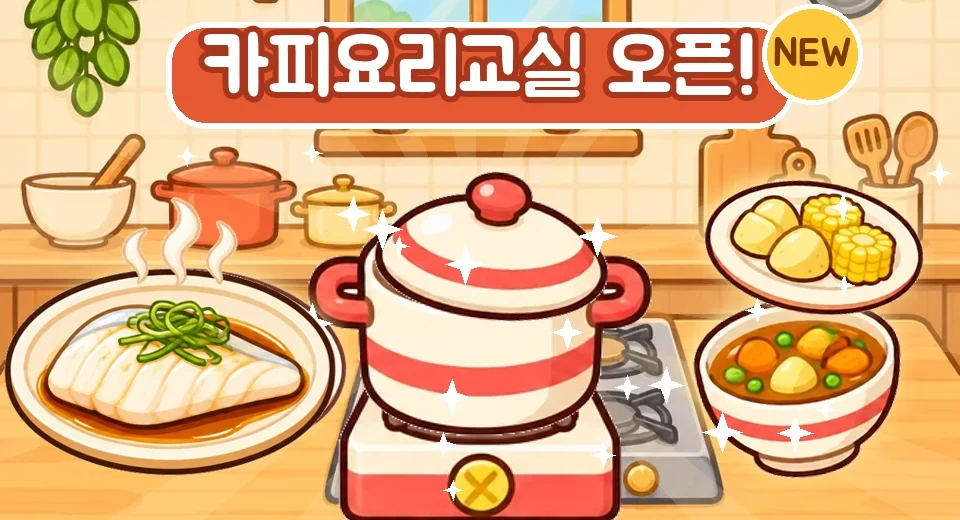
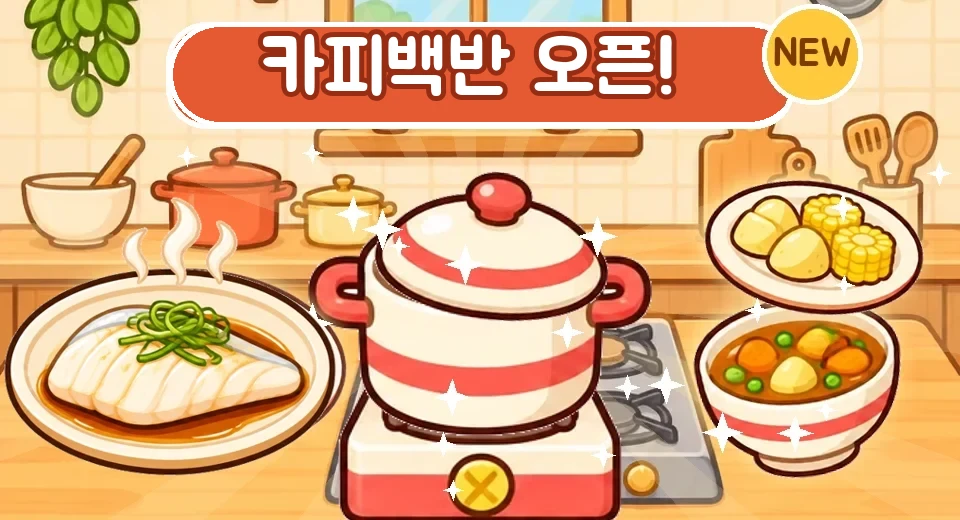
카피요리교실 → 카피백반으로 이름 변경, 하루 임대료 100코인 내야 장사 시작
Claude-Session: https://claude.ai/code/session_015t7mwg1NEPVKJN39Z7Zz4S

Changed region(s): [[0.1562, 0.0308, 0.8125, 0.2462]]

diff --git a/js/app.js b/js/app.js
@@ -201,7 +201,7 @@ function leave() { LS.del('room'); location.hash = ''; location.reload(); }
 const PATCH_UNTIL = Date.parse('2026-11-20T23:59:00+09:00'); // 이 시각까지만, 들어올 때마다 보여 준다
 function patchNote() { if (Date.now() >= PATCH_UNTIL) return;
   const li = (ic, t, d) => h('li', null, h('span', null, ic), h('div', null, h('b', null, t), h('small', null, d)));
-  // 카피 농장 오픈 공지(요리교실이 열리면 다음 장에 붙인다)
+  // 카피 농장 오픈 공지(카피백반이 열리면 다음 장에 붙인다)
   const pages = [
     () => [h('div', { class: 'patch-farm' }, h('img', { src: 'img/farm/patch.webp', alt: '카피 농장 오픈' })),
       h('ul', null,
@@ -210,10 +210,11 @@ function patchNote() { if (Date.now() >= PATCH_UNTIL) return;
         li('💧', '물 주고 잡초 베면 S급', '컨디션 85% 넘으면 A급(가끔 S급), 60% 넘으면 B급, 안 돌봐도 C급. 다 자란 뒤 3일 넘게 안 거두면 시들어 F! 고랑 하나에서 2개씩 거둬요.'),
         li('🐦⬛', '까마귀 출몰! 1분 안에 농장으로', '하루 한 번, 친목회 육지나 농장에 있을 때 아무 때나 까마귀가 밭에 나타나요. 1분 안에 농장에 가서 새총으로 맞혀 쫓아내요(초·중·고급 랜덤). 못 쫓아내면 고랑 하나를 통째로 가져가요.'),
         li('💑', '두두네 밭에 물 주기', '위의 "두두네 농장"에서 구경하고 물을 주고 올 수 있어요. 거둔 작물은 카피수퍼에서 팔아요(S×2 · A×1.5 · B×1.2).')),
-      h('button', { class: 'patch-next cookn', onClick: () => go(1) }, h('img', { src: 'img/cook/fishdish.webp', alt: '' }), h('span', null, h('b', null, '다음 장: 카피요리교실 오픈!'), h('small', null, '눌러서 넘겨 보세요 👉')))],
-    () => [h('div', { class: 'patch-farm' }, h('img', { src: 'img/cook/patch.webp', alt: '카피요리교실 오픈' })),
+      h('button', { class: 'patch-next cookn', onClick: () => go(1) }, h('img', { src: 'img/cook/fishdish.webp', alt: '' }), h('span', null, h('b', null, '다음 장: 카피백반 오픈!'), h('small', null, '눌러서 넘겨 보세요 👉')))],
+    () => [h('div', { class: 'patch-farm' }, h('img', { src: 'img/cook/patch.webp', alt: '카피백반 오픈' })),
       h('ul', null,
-        li('🏠', '카피수퍼 바로 옆 카피요리교실', '놀이터 맨 오른쪽 끝, 카피수퍼 옆 건물을 누르면 들어가요. 요리는 여기서만 할 수 있어요.'),
+        li('🏠', '카피수퍼 바로 옆 카피백반', '놀이터 맨 오른쪽 끝, 카피수퍼 옆 건물을 누르면 들어가요. 요리는 여기서만 할 수 있어요.'),
+        li('🏪', '하루 임대료 100코인', '장사를 하려면 그날 처음 들어갈 때 임대료 100코인을 내고 가게 문을 열어요. 하루 한 번만 내요.'),
         li('📋', '오늘의 주문 3개', '동물들이 날마다 요리를 주문해요. "덜 익혀서", "알맞게", "푹 익혀서"처럼 동물마다 좋아하는 익힘이 달라요.'),
         li('🐟', '생선찜: 손질된 살로 바로 찜', '낚시로 잡은 물고기는 「레몬전어의 흰살생선」처럼 손질된 살로 나와요. 물고기마다 특징을 살린 곁들임(레몬·도토리·왕관…)이 올라가고, 희귀·A·S급은 반짝여요. 냄비에 넣고 뚜껑 덮어 찌다가 ★ 칸에서 불을 꺼요.'),
         li('🥕', '채소 수프 · 감자옥수수찜', '농장에서 거둔 작물 2개로 끓여요. 딱 맞추면 돈 + 친밀도 듬뿍, 익힘이 다르면 절반, 날것이거나 타면 보상이 없어요.'))]];
@@ -222,7 +223,7 @@ function patchNote() { if (Date.now() >= PATCH_UNTIL) return;
   function go(n) { at = n; box.replaceChildren(...pages[n]()); box.scrollTop = 0; const m = box.closest('.modal'); if (m) m.scrollTop = 0;
     dots.replaceChildren(...pages.map((_, k) => h('i', { class: k === n ? 'on' : '' }))); if (nextBtn) { nextBtn.textContent = n === pages.length - 1 ? '확인' : '다음 장 👉'; prevBtn.style.visibility = n ? 'visible' : 'hidden'; } }
   go(0);
-  const close = modal({ title: '✨ 패치 소식 · 카피 농장 & 요리교실', body: h('div', null, box, dots),
+  const close = modal({ title: '✨ 패치 소식 · 카피 농장 & 카피백반', body: h('div', null, box, dots),
     actions: [{ label: '👈 이전', onClick: () => at && go(at - 1) }, { label: '다음 장 👉', primary: true, onClick: c => (at < pages.length - 1 ? go(at + 1) : c()) }] });
   const btns = [...document.querySelectorAll('.modal-wrap:last-child .modal-actions .btn')]; [prevBtn, nextBtn] = btns; go(0); return close; }
 function enter() {

diff --git a/js/cook.js b/js/cook.js
@@ -1,8 +1,9 @@
-// 카피요리교실 — 카피수퍼 옆. 동물들이 주문한 요리는 여기서만 만든다
+// 카피백반 — 카피수퍼 옆. 동물들이 주문한 요리는 여기서만 만든다
 // 하루 주문 3개(동물·요리·익힘 취향) → 재료 고르기(생선은 손질된 살) → 냄비에 넣고 끓이기/찌기 → 원하는 익힘에서 불 끄기
 import { h, toast, modal, ymd } from './ui.js';
 import { sfx } from './sound.js';
 
+const RENT = 100;
 export const DISHES = {
   fish: { name: '생선찜', img: 'img/cook/fishdish.webp', need: '물고기 1마리', base: 140, ms: 9000 },
   soup: { name: '채소 수프', img: 'img/cook/soup.webp', need: '작물 아무거나 2개', base: 90, ms: 7500 },
@@ -42,7 +43,7 @@ export function openCook(o) {
   const R = rnd(hash(ctx.uid + day)), pool = o.animals.filter(a => o.A(a.i) >= 0);
   const orders = Array.from({ length: 3 }, (_, k) => { const a = pool.length ? pool[Math.floor(R() * pool.length)] : o.animals[k], dish = ['fish', 'soup', 'steam'][Math.floor(R() * 3)], pref = DONE[Math.floor(R() * 3)].k; return { k, a, dish, pref }; });
   const coinsEl = h('span', { class: 'ck-coins' }), stage = h('div', { class: 'ck-stage' }), panel = h('div', { class: 'ck-panel' });
-  const wrap = h('div', { class: 'ck' }, h('div', { class: 'ck-top' }, h('b', null, '👩🍳 카피요리교실'), coinsEl, h('button', { class: 'top-x', 'aria-label': '닫기', onClick: () => close() }, '✕')), stage, panel);
+  const wrap = h('div', { class: 'ck' }, h('div', { class: 'ck-top' }, h('b', null, '🍚 카피백반'), coinsEl, h('button', { class: 'top-x', 'aria-label': '닫기', onClick: () => close() }, '✕')), stage, panel);
   document.body.append(wrap);
   const off = ctx.store.on(ref, v => { st = v || {}; if (phase === 'orders') draw(); });
   const prefOf = k => DONE.find(d => d.k === k);
@@ -61,12 +62,15 @@ export function openCook(o) {
   }
   function drawOrders() {
     const done = st.done || {};
-    panel.replaceChildren(h('b', { class: 'ck-h' }, '📋 오늘의 주문'), ...orders.map(od => { const d = DISHES[od.dish], p = prefOf(od.pref), fin = done[od.k];
-      return h('button', { class: 'ck-order' + (fin ? ' done' : ''), onClick: () => fin ? toast('이미 만들어 준 주문이에요') : start(od) }, h('span', { class: 'ck-an', html: od.a.svg }),
+    const open = !!st.rent, rent = h('div', { class: 'ck-rent' + (open ? ' paid' : '') }, h('span', null, '🏪'), h('div', null, h('b', null, open ? '오늘 장사 중' : '오늘 가게 문 열기'), h('small', null, open ? '오늘 임대료 100코인을 냈어요. 내일 다시 내요.' : `장사를 하려면 하루 임대료 ${RENT}코인을 내야 해요.`)),
+      !open && h('button', { class: 'btn primary sm', onClick: payRent }, `${RENT}코인 내기`));
+    panel.replaceChildren(h('b', { class: 'ck-h' }, '📋 오늘의 주문'), rent, ...orders.map(od => { const d = DISHES[od.dish], p = prefOf(od.pref), fin = done[od.k];
+      return h('button', { class: 'ck-order' + (fin ? ' done' : '') + (open ? '' : ' shut'), onClick: () => fin ? toast('이미 만들어 준 주문이에요') : !open ? toast(`먼저 오늘 임대료 ${RENT}코인을 내고 가게 문을 열어요`) : start(od) }, h('span', { class: 'ck-an', html: od.a.svg }),
         h('div', null, h('b', null, `${od.a.name} · ${d.name}`), h('small', null, fin ? (fin === 'ok' ? '완성! 맛있게 먹었어요 😋' : '만들어 줬어요') : `"${o.toned(od.a.i, `${d.name} ${p.n} 부탁해!`)}"`), !fin && h('em', null, `재료: ${d.need}`)),
         h('img', { src: d.img, alt: '' })); }),
       h('p', { class: 'dim ck-tip' }, '주문은 하루에 3개, 날마다 바뀌어요. 원하는 익힘에 딱 맞추면 돈과 친밀도를 더 받아요. 생선은 낚시로 잡은 물고기, 채소는 농장에서 거둔 작물을 써요.'));
   }
+  async function payRent() { if (st.rent) return; if (!(await ctx.spend(RENT))) return toast(`돈이 모자라요 (${RENT}코인 필요)`); st = { ...st, rent: ctx.store.now() }; await ctx.store.update(ref, { rent: st.rent }).catch(() => {}); sfx('coin'); toast('가게 문을 열었어요! 오늘 하루 장사해요 🍚', 1800); draw(); }
   function start(od) { order = od; pick = []; cut = false; phase = 'prep'; draw(); }
   function drawPrep() {
     const d = DISHES[order.dish], p = prefOf(order.pref), kids = [h('b', { class: 'ck-h' }, `${order.a.name}의 주문 · ${d.name} (${p.n})`)];

diff --git a/js/social.js b/js/social.js
@@ -259,9 +259,9 @@ export function mount(el, ctx) {
     palEl = h('div', { class: 'so-me so-pal', style: { display: 'none' } }); pal.spot = null; pal.dx = -1; world.append(palEl); drawPal();
     // 놀이터 왼쪽 끝: '농장 가는 길' 팻말 → 따로 된 카피 농장
     world.append(h('button', { class: 'so-farmsign', 'aria-label': '농장 가는 길', style: { left: Math.round(TILE * 0.012) + 'px', height: Math.round(H * 0.34) + 'px' }, onClick: () => goFarm() }, h('img', { src: 'img/farm/sign.webp', alt: '' }), h('b', null, '농장 가는 길')));
-    // 카피요리교실: 놀이터 맨 오른쪽(카피수퍼 바로 옆) 가게 자리에 요리교실 건물
+    // 카피백반: 놀이터 맨 오른쪽(카피수퍼 바로 옆) 가게 자리에 카피백반 건물
     { const cx0 = (TILES - 1) * TILE + 985 / 1213 * TILE, cw = 205 / 1213 * TILE;
-      world.append(h('button', { class: 'so-cook', 'aria-label': '카피요리교실 들어가기', style: { left: cx0 + 'px', width: cw + 'px', bottom: (1 - 324 / 520) * 100 + '%' }, onClick: () => goCook() }, h('img', { src: 'img/cook/house.webp', alt: '' }), h('b', null, '카피요리교실'))); }
+      world.append(h('button', { class: 'so-cook', 'aria-label': '카피백반 들어가기', style: { left: cx0 + 'px', width: cw + 'px', bottom: (1 - 324 / 520) * 100 + '%' }, onClick: () => goCook() }, h('img', { src: 'img/cook/house.webp', alt: '' }), h('b', null, '카피백반'))); }
     // 카피수퍼: 바닷가 그림 속 매점 건물. 이 건물을 눌러야 들어간다(간판에 카피바라 얼굴, 아래에 '수퍼')
     const bx = (x, y) => [PW + x / 1213 * TILE, y / 520 * H], [mx0, my0] = bx(218, 176), [mx1, my1] = bx(392, 316);
     const [gx0, gy0] = bx(257, 241), [gx1, gy1] = bx(354, 272), gw = gx1 - gx0, gh = gy1 - gy0; // 유리창 칸: 글씨는 이 안에만
@@ -323,7 +323,7 @@ export function mount(el, ctx) {
   const addCoins = n => trial ? Promise.resolve() : ctx.store.tx('money/' + ctx.uid, c => ({ ...(c || {}), c: Math.max(0, ((c && c.c) || 0) + n), total: ((c && c.total) || 0) + Math.max(0, n) })).catch(() => {});
   let farmBarn = {}, fishOpen = false, hintAt = 0, fishBtn = null, fishMode = -1, dex = {}, rockKey = '', battle = null, battleDir = 1, camX = null, sbPanel = null, heave = 0;
   const boatD = () => (bag.boatD == null ? 100 : bag.boatD), BOAT_MIN = 20;
-  function goCook() { if (fishOpen || battle) return; if (me.boat) return toast('배에서 내린 뒤에 들어갈 수 있어요'); if (trial) return toast('체험 중에는 요리교실에 못 들어가요'); fishOpen = true; keys.clear(); sfx('pop');
+  function goCook() { if (fishOpen || battle) return; if (me.boat) return toast('배에서 내린 뒤에 들어갈 수 있어요'); if (trial) return toast('체험 중에는 카피백반에 못 들어가요'); fishOpen = true; keys.clear(); sfx('pop');
     openCook({ ctx, animals: ANIMALS.map((a, i) => ({ i, name: a.name, svg: animalSvg(i) })), A, affinity: (i, d) => setRel(i, { a: A(i) + d }), toned,
       fish: () => Object.entries(bag.fish || {}).filter(([, v]) => v).map(([k, v]) => [k, v, fishOf(v.id)]),
       useFish: key => { const left = { ...(bag.fish || {}) }; delete left[key]; bag = { ...bag, fish: left }; ctx.store.update('bag/' + ctx.uid + '/fish', { [key]: null }).catch(() => {}); },

diff --git a/css/app.css b/css/app.css
@@ -1620,7 +1620,7 @@ body.vb-on .modal-wrap { z-index: 4600; }
 .patch-farm { margin: 2px -6px 14px; border-radius: 18px; overflow: hidden; box-shadow: 0 6px 18px rgba(76,160,60,.35), 0 0 0 3px #FFE27A; position: relative; } .patch-farm img { display: block; width: 100%; animation: pfZoom 6s ease-in-out infinite alternate; } @keyframes pfZoom { to { transform: scale(1.05); } }
 .patch-farm::after { content: ''; position: absolute; inset: 0; background: linear-gradient(110deg, transparent 30%, rgba(255,255,255,.45) 45%, transparent 60%); background-size: 250% 100%; animation: pfShine 3.2s ease-in-out infinite; pointer-events: none; } @keyframes pfShine { from { background-position: 120% 0; } to { background-position: -120% 0; } }
 
-/* ===== 👩🍳 카피요리교실 ===== */
+/* ===== 👩🍳 카피백반 ===== */
 .so-cook { position: absolute; z-index: 1; padding: 0; border: 0; background: none; cursor: pointer; aspect-ratio: 568 / 600; }
 .so-cook img { width: 100%; height: 100%; display: block; filter: drop-shadow(0 2px 2px rgba(0,0,0,.15)); }
 .so-cook b { position: absolute; left: 30%; right: 9%; top: 25%; height: 9%; display: flex; align-items: center; justify-content: center; font: 900 clamp(7px, 2vw, 13px)/1 var(--head); color: #D9532B; white-space: nowrap; text-shadow: 1.5px 0 #fff, -1.5px 0 #fff, 0 1.5px #fff, 0 -1.5px #fff; }
@@ -1688,3 +1688,5 @@ body.vb-on .modal-wrap { z-index: 4600; }
 .fc-msg { position: absolute; left: 0; right: 0; bottom: 120px; text-align: center; font-weight: 900; font-size: 15px; color: #3E2A1E; text-shadow: 0 1px 0 #fff, 0 0 6px #fff; pointer-events: none; }
 .fc-sling { position: absolute; left: 50%; bottom: calc(env(safe-area-inset-bottom) + 6px); width: 70px; margin-left: -35px; pointer-events: none; } .fc-sling.pull { animation: fcPull .3s ease-out; } @keyframes fcPull { 30% { transform: translateY(8px) scaleY(.92); } }
 .fc-lost { position: relative; width: 160px; margin: 0 auto; } .fc-lost img { width: 120px; display: block; margin: 0 auto; } .fc-lost .fc-loot { position: absolute; width: 54px; right: 6px; bottom: 6px; }
+.ck-rent { display: flex; align-items: center; gap: 8px; margin: 6px 0; padding: 8px 10px; border-radius: 14px; background: #2E2433; color: #fff; } .ck-rent > span { font-size: 24px; } .ck-rent > div { flex: 1; display: flex; flex-direction: column; } .ck-rent small { font-size: 11px; opacity: .85; }
+.ck-rent.paid { background: #E6F4DA; color: #2F5A1A; } .ck-order.shut { opacity: .5; }
